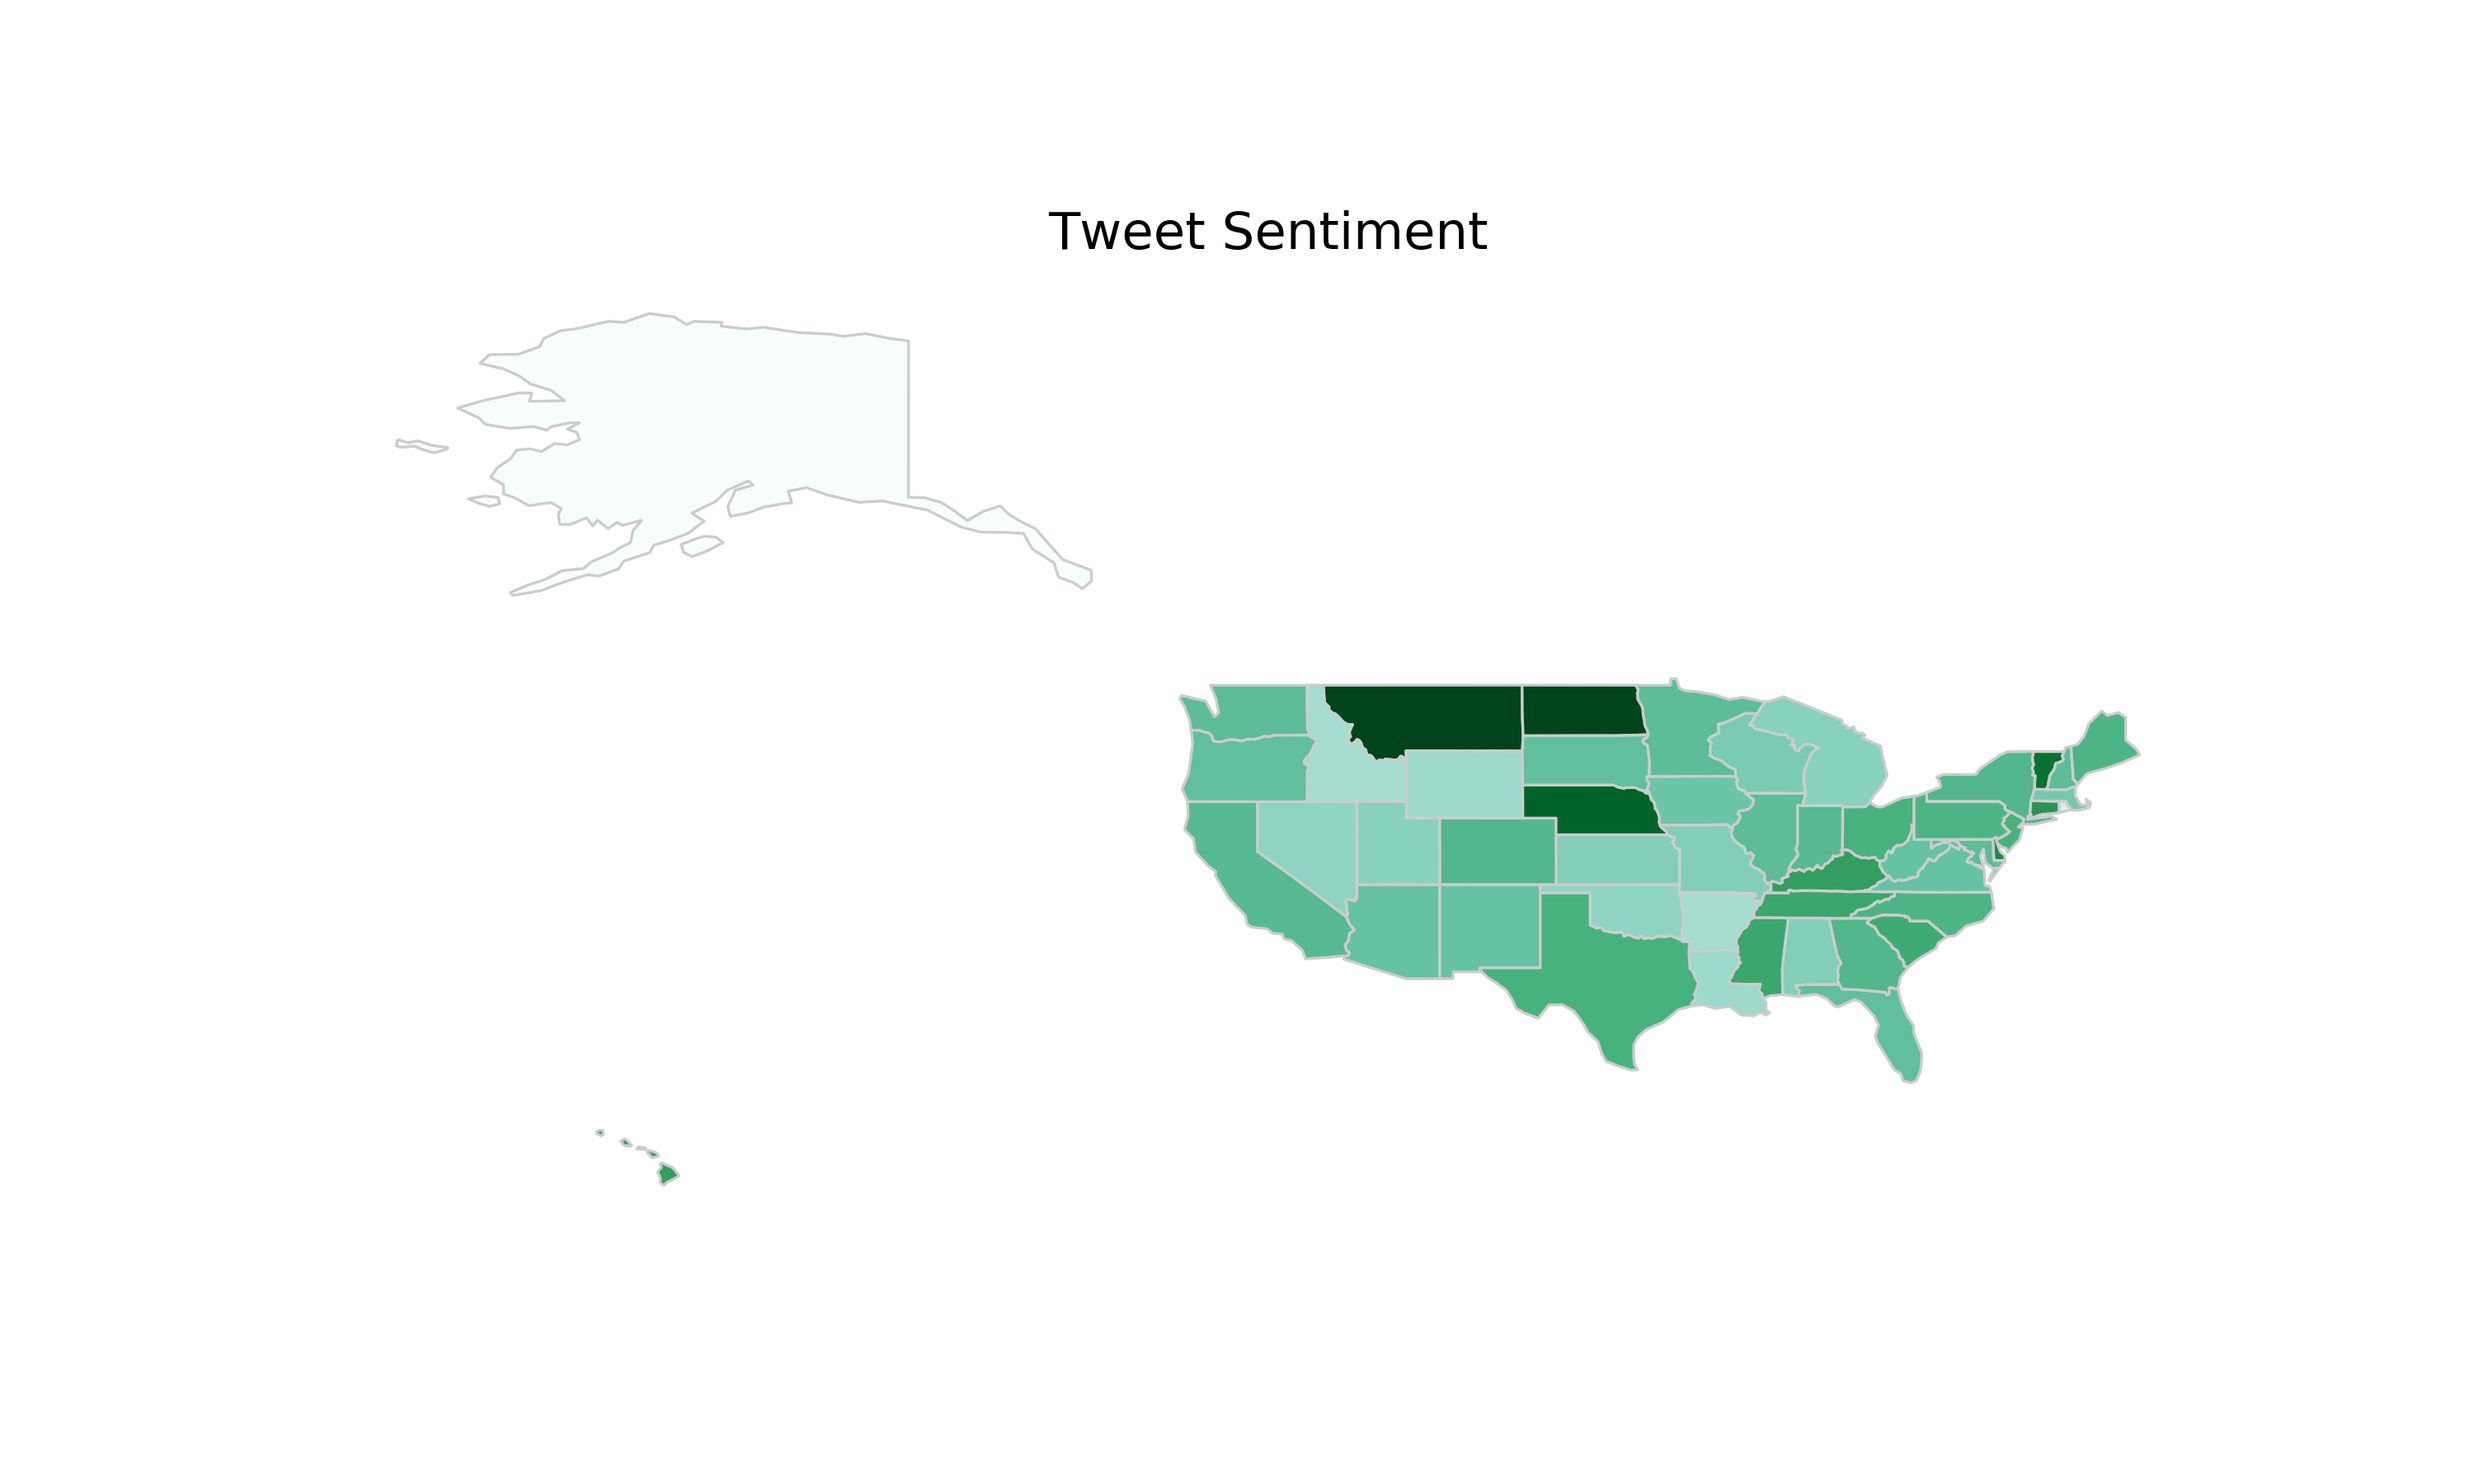
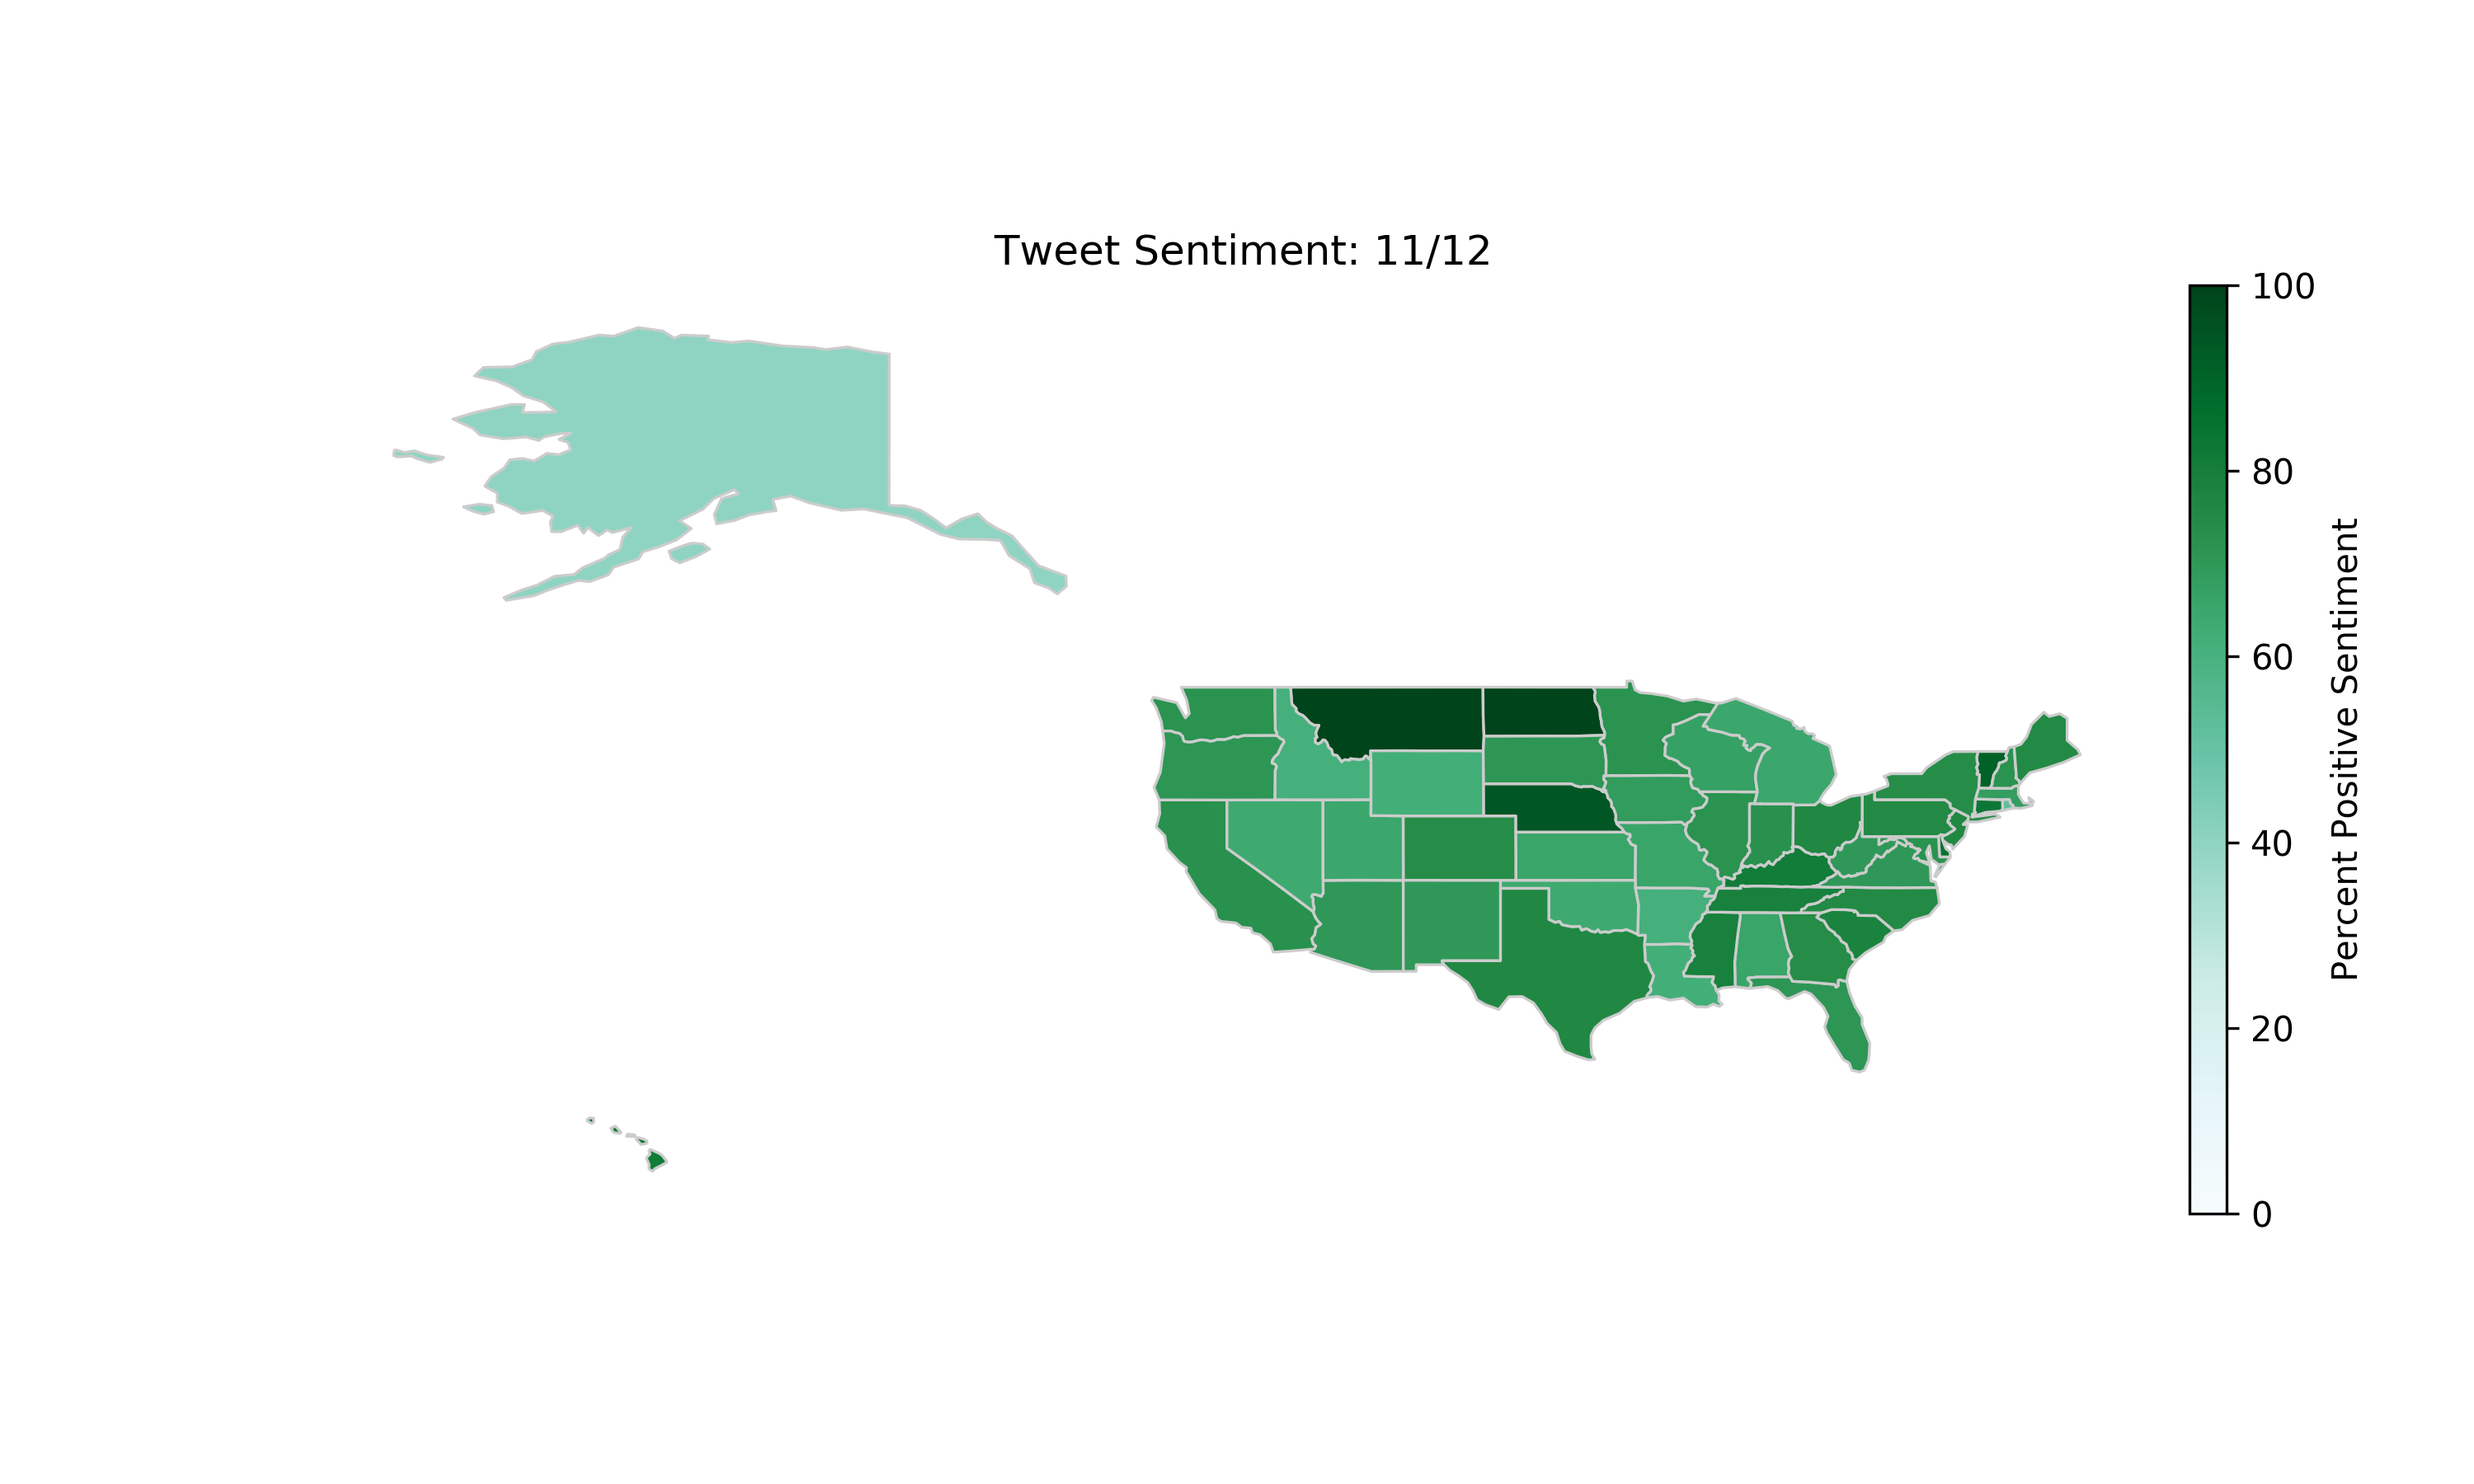
fix map legend

diff --git a/maps/generatemaps.py b/maps/generatemaps.py
@@ -1,40 +1,47 @@
 import geopandas as gpd
 import pandas as pd
 import matplotlib.pyplot as plt
+from mpl_toolkits.axes_grid1 import make_axes_locatable
+import matplotlib.colors as colors
 
 NUM_DAYS = 8  # set this to the number of days we are collecting data for PLUS ONE
-DATES = [31,2,7,8,11,12] # this needs to be changed we we have data from every day
-# read in map shp file
-shp_path = "ne_110m_admin_1_states_provinces/ne_110m_admin_1_states_provinces.shp"
-map_df = gpd.read_file(shp_path)
+DATES = [31, 2, 7, 8, 11, 12]  # this needs to be changed we we have data from every day
[1 lines of base64/hex data omitted]
 
-df_by_day = []  # list to hold each dataframe for each day's data
+# read in map shp file
+shpPath = "ne_110m_admin_1_states_provinces/ne_110m_admin_1_states_provinces.shp"
+mapDF = gpd.read_file(shpPath)
+
+DFByDay = []  # list to hold each dataframe for each day's data
 
 # read states sentiment data
-df = pd.read_csv('/Users/allisonmutka/Desktop/cse482project/data/aggregatedData')
+df = pd.read_csv(DATAFILE)
 print(df.head())
 
 # split the data frame into data frames by day
 for date in DATES:
-    df_day = df[df['Date'] == date]
-    df_day.columns = ["State", "Sent", "Date"]
-    df_by_day.append(df_day)
+    dfDay = df[df['Date'] == date]
+    dfDay.columns = ["State", "Sent", "Date"]
+    DFByDay.append(dfDay)
 
 # generate map for each day
-count = 1
-for day in df_by_day:
+for day in DFByDay:
     print(day)
     # join map data with sentiment data
-    merged = map_df.set_index('name').join(day.set_index("State"))
+    merged = mapDF.set_index('name').join(day.set_index("State"))
 
     # visualize the data
     variable = 'Sent'
-    vmin, vmax = 120, 220
     fig, ax = plt.subplots(1, figsize=(10, 6))
-    merged.plot(column=variable, cmap='BuGn', linewidth=0.8, ax=ax, edgecolor='0.8')
+    divider = make_axes_locatable(ax)
+    cax = divider.append_axes("right", size="2%", pad=0.1)
+    vmin, vmax, vcenter = 0, 100, 50
+    divnorm = colors.DivergingNorm(vmin=vmin, vmax=vmax, vcenter=50)
+    cbar = plt.cm.ScalarMappable(norm=divnorm, cmap='BuGn')
+    usMap = merged.plot(column=variable, cmap='BuGn', linewidth=0.8, ax=ax, edgecolor='0.8', legend=True, cax=cax,
+                        legend_kwds={'label': "Percent Positive Sentiment"}, norm=divnorm)
     ax.axis('off')
-    ax.set_title("Tweet Sentiment", fontdict={"fontsize": "15", "fontweight": "3"})
+    ax.set_title(" Tweet Sentiment: 11/" + str(day["Date"].iloc[0]), fontdict={"fontsize": "12", "fontweight": "3"})
 
     # save to an image file
     fig.savefig("map_export" + str(day['Date'].iloc[0]) + ".png", dpi=300)
-    count += 1

diff --git a/data/aggregrate_data.py b/data/aggregrate_data.py
@@ -12,13 +12,9 @@ csvFile = open('aggregatedData', 'a')
 csvWriter = csv.writer(csvFile)
 
 csvWriter.writerow(['State', 'Sent', 'Date'])
-
 reader = csv.reader(fp)
-
 line = next(reader)
-
 current_date = line[1]
-
 fp.seek(0)
 
 day_dict = {}
@@ -35,27 +31,14 @@ for line in reader:
     if date != current_date:
 
         print(day_dict)
-
         for state in day_dict:
             positive = day_dict[state]['positive']
             total = day_dict[state]['positive'] + day_dict[state]['negative']
             sentiment_ratio = int(positive/total*100)
             print(state, current_date, sentiment_ratio)
-
             write_date = int(current_date)
-
             csvWriter.writerow([state, sentiment_ratio, write_date])
 
         current_date = date
 
-
-
-
 csvFile.close()
-
-
-
-
-
-
-
